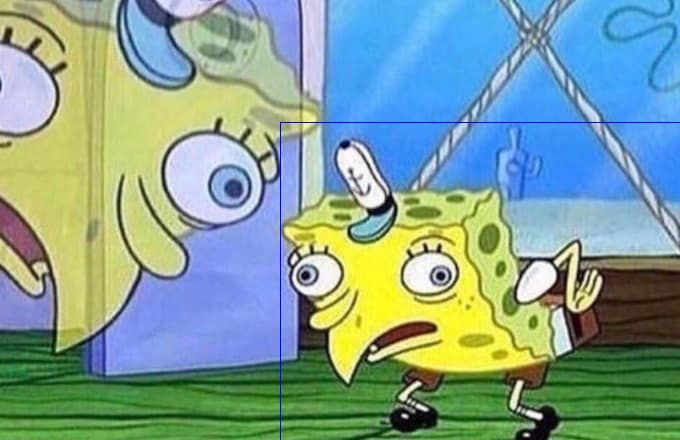
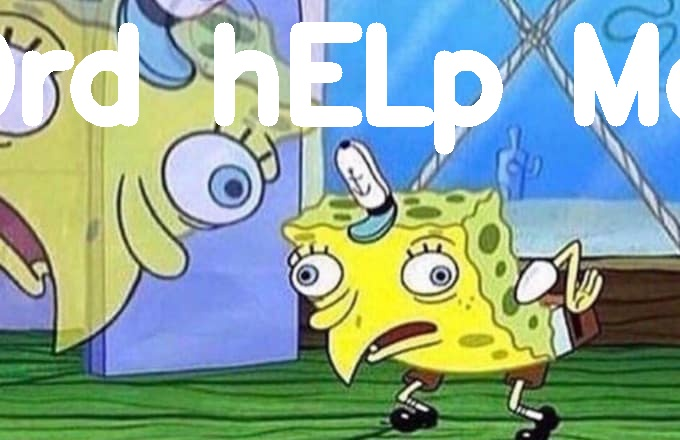
text looks better

diff --git a/spongebob/spongebob.py b/spongebob/spongebob.py
@@ -94,10 +94,10 @@ def create_and_write_meme(partitioned_text):
     height, width, _ = img.shape
 
     FONT = cv2.FONT_HERSHEY_SIMPLEX
-    FONT_SCALE = 40
-    FONT_THICKNESS = 200
-    #bg_color = (255, 255, 255)
-    label_color = 255 #(0, 0, 0)
+    FONT_SCALE = 4
+    FONT_THICKNESS = 20
+    label_color = (255, 255, 255) #255 #(0, 0, 0)
+
 
     top_text, bot_text = partitioned_text.split("|SPONGEPIC|")
 
@@ -106,12 +106,12 @@ def create_and_write_meme(partitioned_text):
                                                             FONT_SCALE,
                                                             FONT_THICKNESS)
     top_center = label_width / 2
-    top_left = int(width - top_center)
+    top_left = int((width/2) - top_center)
     top_top = int((height * .05) + label_height)  # 5% down
     print(top_text)
     print(top_left, top_top)
 
-    cv2.putText(img, top_text, (top_left, top_top), FONT, FONT_SCALE, label_color)
+    cv2.putText(img, top_text, (top_left, top_top), FONT, FONT_SCALE, label_color, thickness=FONT_THICKNESS)
     cv2.imwrite(os.path.join(my_path, 'meme.jpg'), img)
 
 
